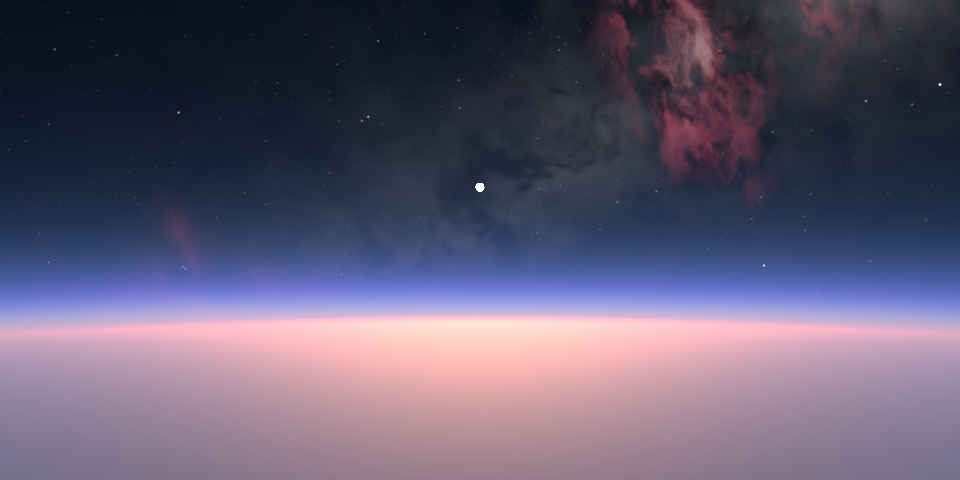
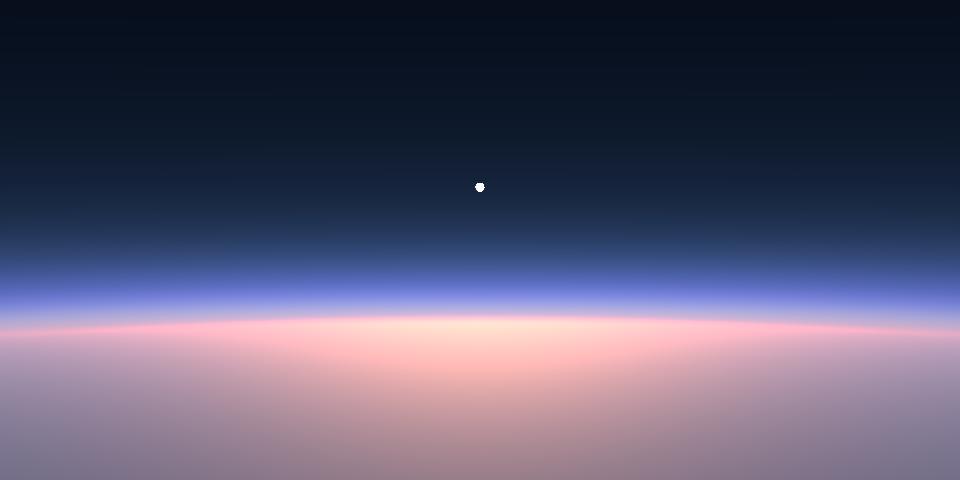
Expose deep-space for the night sky, add a night-side orbit scene
deep-space.json takes a long exposure; night-orbit.json shows the Milky
Way over the Earth's night side and its twilight limb. The sunlit limb
and stratosphere scenes no longer show stars, as a camera wouldn't.

Claude-Session: https://claude.ai/code/session_01U8ZZimXVEUkvKp1C1jwKkT

Changed region(s): [[0.375, 0.0, 1.0, 0.5312], [0.1562, 0.4375, 0.2188, 0.5625]]

diff --git a/docs/space.md b/docs/space.md
@@ -10,9 +10,35 @@ off, generated from a seed: the same seed gives the same sky from anywhere in th
 
 With no skysphere it is what every escaping ray sees (`demo/scenes/deep-space.json`). With a
 skysphere, it shows through the air, dimmed by the air's transmittance along the view ray
-and hidden by the ground: by day the sky outshines it, at night and from high up it shows
-(`orbit.json`, `limb-sunset.json`, `stratosphere.json`). Other backgrounds are still hidden by
-the skysphere, as before.
+and hidden by the ground (`night-orbit.json`). Other backgrounds are still hidden by the
+skysphere, as before.
+
+## Brightness: physical by default
+
+Everything is on a physical scale, relative to the sun's irradiance: the scene's `sun`
+(its luminance) if it has one, else `sun_irradiance`, else 1. Stars have magnitudes, and the
+Milky Way, nebulae and galaxies surface brightnesses in magnitudes per square arcsecond, all
+against the sun's apparent magnitude, -26.74. So they are as faint as in life: the Milky
+Way's brightest clouds are about 10^-8 of the sun's irradiance per steradian, a sixth
+magnitude star 10^-13 of it. Beside a sunlit planet (exposure 1) they don't show, as they
+don't in photographs from orbit; seeing them takes a night sky's long exposure:
+
+```json
+"output": { "exposure": 1.5e7 }
+```
+
+for a scene with no sun (or `2.5e6` beside a sun of intensity 6, as in `night-orbit.json`).
+For looks rather than physics, `brightness` scales all of it, and each part has its own
+`brightness` (a multiplier) and `surface_brightness` (magnitudes) to set.
+
+## Skipping it where the sky outshines it
+
+Seen through a skysphere, space is looked at only where it could matter: for each view ray,
+a cheap bound on its luminance (no noise, no stars generated: per-cell star fluxes tabulated
+when the scene loads, the Milky Way's profile, the nebulae and galaxies in that direction) is
+compared with the sky's own light, and if it is under `threshold` (default 0.001) of it, the
+space and the air's transmittance aren't computed. By day that is almost everywhere; at night
+almost nowhere. `"threshold": 0` computes it everywhere.
 
 ## Options
 
@@ -21,7 +47,9 @@ Every part is on by default; set it to `false` to turn it off.
 | Key | Default | |
 | --- | --- | --- |
 | `seed` | 0 | Seeds every part |
-| `brightness` | 1 | Scales all of it |
+| `brightness` | 1 | Scales all of it (1 is physical) |
+| `sun_irradiance` | the scene's sun, else 1 | The photometric reference |
+| `threshold` | 0.001 | Through a skysphere: skip space where it could add less than this share of the sky's light |
 | `galactic_pole` | `[-0.35, 0.55, 0.75]` | The direction perpendicular to the Milky Way's plane |
 | `galactic_centre` | `[0.9, 0.2, -0.3]` | Towards the galactic centre (made perpendicular to the pole) |
 | `stars` | `{}` | See below |
@@ -35,7 +63,7 @@ Every part is on by default; set it to `false` to turn it off.
 | --- | --- | --- |
 | `count` | 40000 | Stars in the whole sky |
 | `magnitude_limit` | 8 | The faintest star's magnitude; counts grow as 10^(0.47 m) towards it |
-| `brightness` | 12 | A magnitude-0 star's light, as this radiance over one pixel |
+| `brightness` | 1 | Scales their light from the physical |
 | `size` | half a pixel | The standard deviation of a star's image, in degrees |
 | `saturation` | 1 | 0 white stars, 1 their black-body colours |
 | `galactic_concentration` | 3 | How much denser stars are in the galactic plane and bulge |
@@ -47,7 +75,8 @@ carrying their whole flux, so they are sampled smoothly at any resolution.
 
 | Key | Default | |
 | --- | --- | --- |
-| `brightness` | 0.12 | The glow of the disc |
+| `surface_brightness` | 21 | Of the disc at the galactic centre, before the bulge and star clouds, in mag/arcsec² (the brightest clouds come out near 20) |
+| `brightness` | 1 | Scales the glow |
 | `dust` | 1 | The optical depth of the dust lanes, which dim and redden what lies behind them |
 | `disc_colour`, `bulge_colour` | white-blue, yellow | |
 
@@ -58,13 +87,15 @@ Random ones are scattered along the galactic plane, crowded towards the centre:
 | Key | Default | |
 | --- | --- | --- |
 | `count` | 16 | |
-| `brightness` | 1 | Scales their light |
+| `brightness` | 1 | Scales their light; each is up to 1.2 magnitudes fainter than its kind's default at random |
 | `size` | `[3, 12]` | The range of their radii, in degrees (planetary nebulae are an eighth of that) |
 | `kinds` | `[0.55, 0.2, 0.1, 0.15]` | The shares of emission, reflection, planetary and dark nebulae |
 
 Or list them, each with `type` (`"emission"`: hydrogen-alpha red with an oxygen-III teal core,
 threaded with dust; `"reflection"`: blue; `"planetary"`: a small ring about a white dwarf;
-`"dark"`: dust alone), `direction`, `radius` (degrees), `brightness`, `dust` and `seed`:
+`"dark"`: dust alone), `direction`, `radius` (degrees), `surface_brightness` (mag/arcsec² where
+densest; defaults 21 emission, 22 reflection, 19 planetary), `brightness` (a multiplier), `dust`
+and `seed`:
 
 ```json
 "nebulae": [
@@ -80,13 +111,15 @@ Random ones are placed away from the galactic plane (whose dust would hide them)
 | Key | Default | |
 | --- | --- | --- |
 | `count` | 40 | |
-| `brightness` | 1 | Scales their surface brightness |
+| `brightness` | 1 | Scales their light; their cores are 18.3 to 19.8 mag/arcsec² |
 | `size` | `[0.5, 3]` | The range of their radii, in degrees; smaller ones are commoner |
 | `spirals` | 0.65 | The share that are spirals; the rest are ellipticals |
 
 Or list them, each with `type` (`"spiral"` or `"elliptical"`), `direction`, `radius`
 (degrees), `inclination` (degrees from face on), `position_angle` (degrees, of the major axis
-on the sky), `brightness`, `arms` (spirals) and `seed`:
+on the sky), `surface_brightness` (of the core, mag/arcsec², default 18.5; a disc's centre is
+2.3 magnitudes fainter, near Freeman's law), `brightness` (a multiplier), `arms` (spirals) and
+`seed`:
 
 ```json
 "galaxies": [ { "type": "spiral", "direction": [1, 0.2, 0], "radius": 6, "inclination": 55 } ]

diff --git a/CLAUDE.md b/CLAUDE.md
@@ -7,7 +7,7 @@ Rays.rust is a raytracer written in Rust with the following features:
 - Objects: Sphere, Plane, Mesh, OBJ file import; transforms and instancing of named "geometries"; POV-Ray's shapes (cylinder, cone, torus, blob, isosurface, text and more; see docs/shapes.md, parsed in src/scenefile_shapes.rs), combined by CSG (src/shapes/csg.rs); mountains (`"mountains"`: ridged-noise heightfield with snow, rock and vegetation), and a planet (`"planet"`: the ground as a sphere of the Earth's radius); clouds can cover the whole planet (`"mapping": "global"`: an equi-angular cube-sphere weather map and a planet-wide wind field), seen from orbit in `demo/scenes/orbit.json` (and the bare atmosphere at the limb and from the stratosphere: `limb-sunset.json`, `stratosphere.json`)
 - Participating media: boxes of constant or noise-driven density (delta tracking with local majorants, ratio-tracked shadows); Henyey-Greenstein or Mie (water droplet) phase; diffraction by particles (coronae, iridescence); ice-crystal halos traced through hexagonal prisms (sun dogs, 22°/46° halos, circumzenithal arc); rainbows traced through raindrops (`"rainbow": true`: primary and secondary bows, Alexander's dark band); optional similarity and Oz multiple-scattering approximations
 - Skysphere with Rayleigh and Mie Scattering, and aerial perspective (distant objects attenuated and hazed by the same atmosphere); `"crepuscular_rays": true` lets clouds and terrain shadow the air (sunbeams)
-- The rest of the universe (`"background": {"type": "space"}`, `src/procedural/space/`, docs/space.md): procedural stars (luminosity function, black-body colours), the Milky Way's glow and dust lanes, emission, reflection, planetary and dark nebulae, and spiral and elliptical galaxies; seen through a skysphere's air by its transmittance (`demo/scenes/deep-space.json`, and the orbit scenes)
+- The rest of the universe (`"background": {"type": "space"}`, `src/procedural/space/`, docs/space.md): procedural stars (luminosity function, black-body colours), the Milky Way's glow and dust lanes, emission, reflection, planetary and dark nebulae, and spiral and elliptical galaxies; physically bright (magnitudes against the sun's, so it takes a night exposure, `"output": {"exposure": ...}`) unless `brightness` scales it; seen through a skysphere's air by its transmittance, and skipped where the sky outshines it (`threshold`) (`demo/scenes/deep-space.json`, `night-orbit.json`)
 - Directional sun light (`"sun"`), sampled directly; follows the skysphere's sun and is reddened by its atmosphere
 - Procedural objects including Ocean (Tessendorf's algorithm with Phillips spectrum; the planet's surface by default, or a plane with `"planet_radius": 0`: displaced near the camera, physically lit, with sun glitter and slopes calibrated to Cox and Munk) and volumetric clouds: cumulus to stratus (`"nubis_clouds"`, after Horizon Zero Dawn's Nubis) and cirrus with fallstreaks (`"hogan_kew_cirrus"`, after Hogan and Kew), altocumulus as convection cells (`"benard_altocumulus"`: Rayleigh-Bénard cells, rows, undulatus waves), lenticular clouds over a mountain's lee waves (`"lenticular"`: stacked plates from moist layers), mammatus under an anvil (`"mammatus"`), rain shafts and virga (`"precipitation"`: Marshall-Palmer extinction by rain rate, shear, evaporation), and cumulus grown by simulating a sunny day (`"harris_cumulus"`: stable fluids with buoyancy, condensation, latent heat and subgrid turbulence, through the ARM shallow-cumulus case's day; cached so `scripts/animate.py` can render it boiling and dissipating)
 - Procedural trees (Weber and Penn's parametric model, `src/procedural/tree.rs`), forests of instanced
